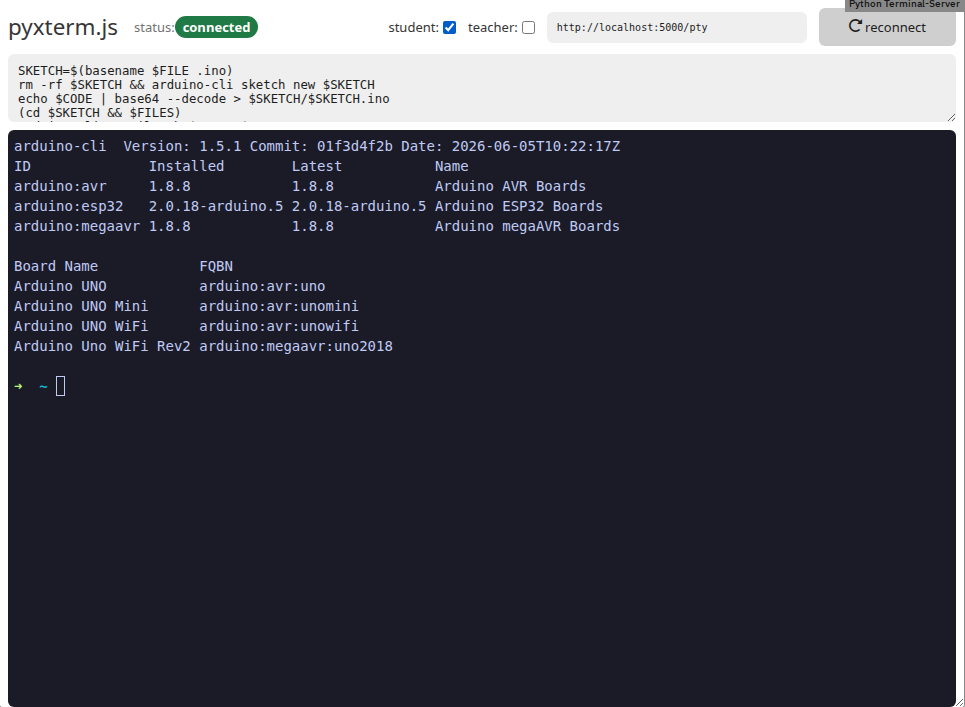
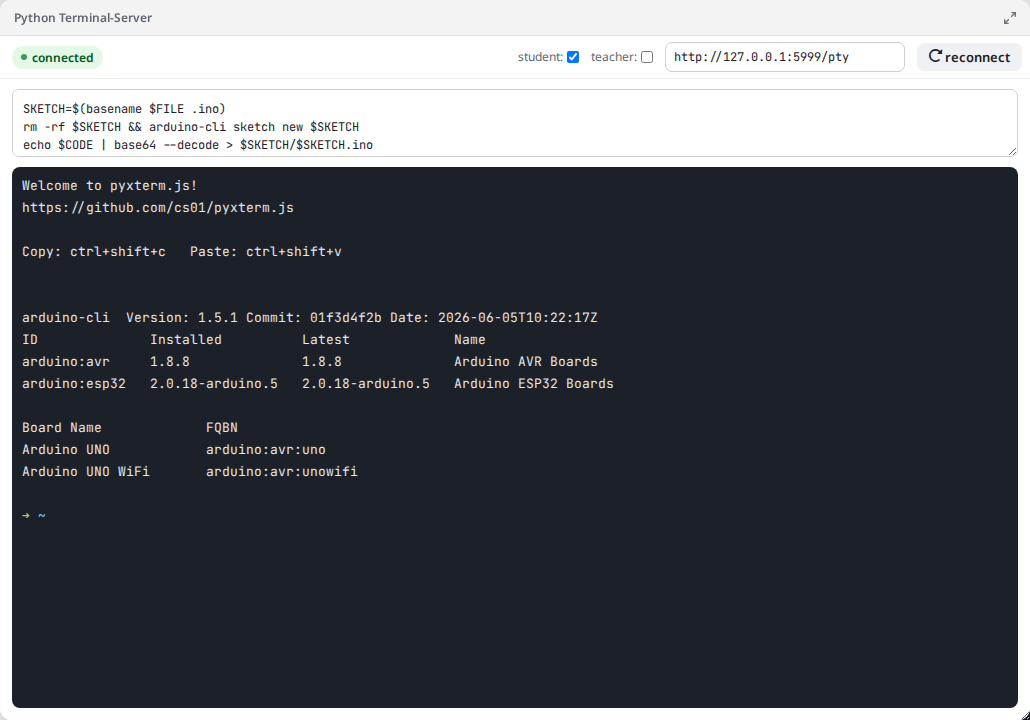
Follow the classroom's light or dark theme

Changed region(s): [[0.0, 0.0, 1.0, 1.0], [0.4041, 0.0311, 0.8394, 0.0934], [0.1865, 0.5912, 0.342, 0.6846]]

diff --git a/src/styles.css b/src/styles.css
@@ -7,64 +7,21 @@ html > body {
   height: 100vh;
   max-width: 100%;
   margin: 0;
-  padding: 0.5rem 0.5rem 0;
-}
-
-#app {
-  display: flex;
-  flex-wrap: wrap;
-  align-items: center;
-  gap: 0.5rem 1rem;
-  margin-bottom: 0.5rem;
-}
-
-.title {
-  font-size: 1.4em;
-  line-height: 1;
-}
-
-/* inherit: water.css has a light and a dark variant, a fixed grey would
-   be unreadable in one of them */
-.status {
-  font-size: small;
-  color: inherit;
-}
-.status > .label {
-  opacity: 0.7;
-}
-
-.status .badge {
-  display: inline-block;
-  padding: 0.1rem 0.5rem;
-  border-radius: 999px;
-  font-weight: bold;
-  color: #fff;
-}
-/* dark enough for white text to clear WCAG AA */
-.status .badge.on {
-  background-color: #1f7a45;
-}
-.status .badge.off {
-  background-color: #b8384a;
-}
-.status .badge.wait {
-  background-color: #6b6b6b;
+  padding: 0;
 }
 
 /* wraps in a narrow frame instead of pushing the button out of it */
 .controls {
-  margin-left: auto;
   display: flex;
   flex-wrap: wrap;
   align-items: center;
   max-width: 100%;
-  gap: 0.75rem;
-  font-size: small;
+  gap: 8px 12px;
 }
 .controls label {
   display: inline-flex;
   align-items: center;
-  gap: 0.25rem;
+  gap: 4px;
   margin: 0;
   white-space: nowrap;
 }
@@ -76,50 +33,50 @@ html > body {
   width: 15rem;
   min-width: 0;
   max-width: 100%;
-  font-family: monospace;
-  font-size: 0.95em;
+  font-family: var(--edrys-mono);
 }
 .controls button {
   margin: 0;
   white-space: nowrap;
 }
 
-/* must match TERMINAL_BACKGROUND in terminal.js, or the padding shows a seam */
+/* station only: the script that runs code sent with execute */
+#app textarea {
+  display: block;
+  box-sizing: border-box;
+  width: calc(100% - 24px);
+  height: 4.25rem;
+  margin: 10px 12px 0;
+  font: 400 12px/1.5 var(--edrys-mono);
+  resize: vertical;
+}
+
+/* the background is the xterm theme's (terminal.js), or the padding shows a seam */
 #terminal {
   flex: 1;
   min-height: 0;
+  margin: 10px 12px 12px;
   /* a student whose frame is smaller than the station's terminal scrolls */
   overflow: auto;
-  background: #1a1b26;
-  border-radius: 6px;
-  padding: 6px 0 6px 6px;
+  padding: 8px 0 8px 10px;
 }
 
-/* scoped to #terminal - the chrome outside keeps water.css */
+/* scoped to #terminal - the chrome outside has the module's scrollbars */
 #terminal ::-webkit-scrollbar {
   width: 10px;
 }
 #terminal ::-webkit-scrollbar-track {
-  background: #1a1b26;
+  background: var(--edrys-terminal);
 }
 #terminal ::-webkit-scrollbar-thumb {
-  background: #414868;
+  background: #4a525e;
   border-radius: 5px;
 }
 #terminal ::-webkit-scrollbar-thumb:hover {
-  background: #565f89;
+  background: #5c6470;
 }
 /* firefox */
 #terminal .xterm-viewport {
   scrollbar-width: thin;
-  scrollbar-color: #414868 #1a1b26;
-}
-
-#app textarea {
-  flex: 1 0 100%;
-  height: 4.25rem;
-  margin: 0;
-  font-family: monospace;
-  font-size: 0.95em;
-  resize: vertical;
+  scrollbar-color: #4a525e var(--edrys-terminal);
 }

diff --git a/src/terminal.js b/src/terminal.js
@@ -4,32 +4,36 @@
 import { Terminal } from '@xterm/xterm'
 import '@xterm/xterm/css/xterm.css'
 
-// Mirrored by the #terminal background in styles.css - if these drift, the
-// padding around the terminal shows a seam against the xterm canvas.
-export const TERMINAL_BACKGROUND = '#1a1b26'
-
-export const TERMINAL_THEME = {
-  background: TERMINAL_BACKGROUND,
-  foreground: '#c0caf5',
-  cursor: '#c0caf5',
-  cursorAccent: TERMINAL_BACKGROUND,
-  selectionBackground: '#33467c',
-  black: '#15161e',
-  red: '#f7768e',
-  green: '#9ece6a',
-  yellow: '#e0af68',
-  blue: '#7aa2f7',
-  magenta: '#bb9af7',
-  cyan: '#7dcfff',
-  white: '#a9b1d6',
-  brightBlack: '#414868',
-  brightRed: '#ff7a93',
-  brightGreen: '#b9f27c',
-  brightYellow: '#ff9e64',
-  brightBlue: '#7da6ff',
-  brightMagenta: '#bb9af7',
-  brightCyan: '#0db9d7',
-  brightWhite: '#c0caf5',
+// The terminal stays dark in both classroom themes. Its background is
+// --edrys-terminal from edrys-module.css (a shade darker in the dark theme),
+// which #terminal in styles.css uses too, so the padding shows no seam.
+export function terminalTheme() {
+  const css = getComputedStyle(document.documentElement)
+  const background = css.getPropertyValue('--edrys-terminal').trim() || '#1b2029'
+  const foreground = css.getPropertyValue('--edrys-on-terminal').trim() || '#e4e7eb'
+  return {
+    background,
+    foreground,
+    cursor: foreground,
+    cursorAccent: background,
+    selectionBackground: '#3a4a63',
+    black: '#15161e',
+    red: '#f7768e',
+    green: '#9ece6a',
+    yellow: '#e0af68',
+    blue: '#7aa2f7',
+    magenta: '#bb9af7',
+    cyan: '#7dcfff',
+    white: '#a9b1d6',
+    brightBlack: '#5c6470',
+    brightRed: '#ff7a93',
+    brightGreen: '#b9f27c',
+    brightYellow: '#ff9e64',
+    brightBlue: '#7da6ff',
+    brightMagenta: '#bb9af7',
+    brightCyan: '#0db9d7',
+    brightWhite: '#e4e7eb',
+  }
 }
 
 export function debounce(func, wait_ms) {
@@ -70,18 +74,22 @@ export function throttle(cb, delay = 100) {
   }
 }
 
+const FALLBACK_FONT = "'JetBrains Mono', 'Fira Code', 'Cascadia Mono', 'SF Mono', 'Menlo', 'Consolas', monospace"
+// edrys-module.css's font; xterm measures its font once, so it is only used
+// when loaded (app.js switches to it then)
+export const TERMINAL_FONT = `'JetBrains Mono Variable', ${FALLBACK_FONT}`
+
 export function createTerminal() {
   return new Terminal({
     cursorBlink: true,
     macOptionIsMeta: true,
     scrollback: 10000,
-    fontFamily:
-      "'JetBrains Mono', 'Fira Code', 'Cascadia Mono', 'SF Mono', 'Menlo', 'Consolas', monospace",
-    fontSize: 14,
+    fontFamily: document.fonts?.check("13px 'JetBrains Mono Variable'") ? TERMINAL_FONT : FALLBACK_FONT,
+    fontSize: 13,
     lineHeight: 1.3,
     cursorStyle: 'bar',
     cursorWidth: 2,
-    theme: TERMINAL_THEME,
+    theme: terminalTheme(),
   })
 }
 

diff --git a/src/index.html b/src/index.html
@@ -77,31 +77,36 @@
       href="https://edrys-labs.github.io/module/vendor/open-iconic/css/open-iconic.min.css"
     />
 
+    <link
+      rel="stylesheet"
+      href="https://edrys-labs.github.io/module/edrys-module.css"
+    />
+
     <!-- Edrys client API -->
     <script src="https://edrys-labs.github.io/module/edrys.js"></script>
   </head>
 
   <body>
     <div id="app">
-      <span class="title">pyxterm.js</span>
-      <span class="status">
-        <span class="label">status:</span>
-        <span v-if="status === false" class="badge off">disconnected</span>
-        <span v-if="status === null" class="badge wait">connecting ...</span>
-        <span v-if="status === true" class="badge on">connected</span>      </span>
+      <div class="edrys-toolbar">
+        <span v-if="status === false" class="edrys-pill error" role="status">disconnected</span>
+        <span v-if="status === null" class="edrys-pill warn" role="status">connecting ...</span>
+        <span v-if="status === true" class="edrys-pill ok" role="status">connected</span>
+        <span class="edrys-spacer"></span>
 
-      <span class="controls" v-if="isStation">
-        <label>
-          student: <input type="checkbox" v-model="enable.student" />
-        </label>
-        <label>
-          teacher: <input type="checkbox" v-model="enable.teacher" />
-        </label>
-        <input type="url" v-model="server" aria-label="terminal server" />
-        <button @click="reload()" title="reconnect to the terminal server">
-          <span class="oi" data-glyph="reload" aria-hidden="true"></span> reconnect
-        </button>
-      </span>
+        <span class="controls" v-if="isStation">
+          <label>
+            student: <input type="checkbox" v-model="enable.student" />
+          </label>
+          <label>
+            teacher: <input type="checkbox" v-model="enable.teacher" />
+          </label>
+          <input type="url" v-model="server" aria-label="terminal server" />
+          <button @click="reload()" title="reconnect to the terminal server">
+            <span class="oi" data-glyph="reload" aria-hidden="true"></span> reconnect
+          </button>
+        </span>
+      </div>
 
       <textarea
         v-model="script"
@@ -110,7 +115,7 @@
       ></textarea>
     </div>
 
-    <div id="terminal"></div>
+    <div id="terminal" class="edrys-terminal"></div>
     
     <!-- integrity: this page runs on the origin of edrys, a changed CDN file
          must not run here -->

diff --git a/src/app.js b/src/app.js
@@ -17,9 +17,11 @@ import {
 import { fillScript, parseUpload } from './execute.js'
 
 import {
+  TERMINAL_FONT,
   createTerminal,
   debounce,
   registerClearHandler,
+  terminalTheme,
   throttle,
 } from './terminal.js'
 
@@ -418,6 +420,19 @@ const app = createApp({
 }).mount('#app')
 
 app.initTerminal()
+
+// the terminal stays dark, a shade darker in the classroom's dark theme
+window.Edrys?.onTheme?.(() => {
+  if (terminal) terminal.options.theme = terminalTheme()
+})
+// xterm measures its font once: again when the module font has loaded
+document.fonts?.load("13px 'JetBrains Mono Variable'").then(() => {
+  if (!terminal) return
+  terminal.options.fontFamily = TERMINAL_FONT
+  // the same as a resize of the frame: the station owns the size
+  if (fitToScreen() && app.isStation) app.announce()
+  fitStationSize()
+})
 
 // Initialize when Edrys is ready
 if (window.Edrys) {

diff --git a/README.md b/README.md
@@ -8,6 +8,9 @@ It is based on [pyxterm.js](https://github.com/cs01/pyxtermjs) by Chad Smith.
   <img alt="The module on a station: status, who may type, the terminal server, the script for code from other modules, and the shared terminal" src="./screenshots/station-light.png">
 </picture>
 
+The module follows the classroom's light or dark theme (the operating system's when opened on its own); the terminal
+stays dark in both.
+
 ## Usage
 
 Add the module to your class with this URL:
